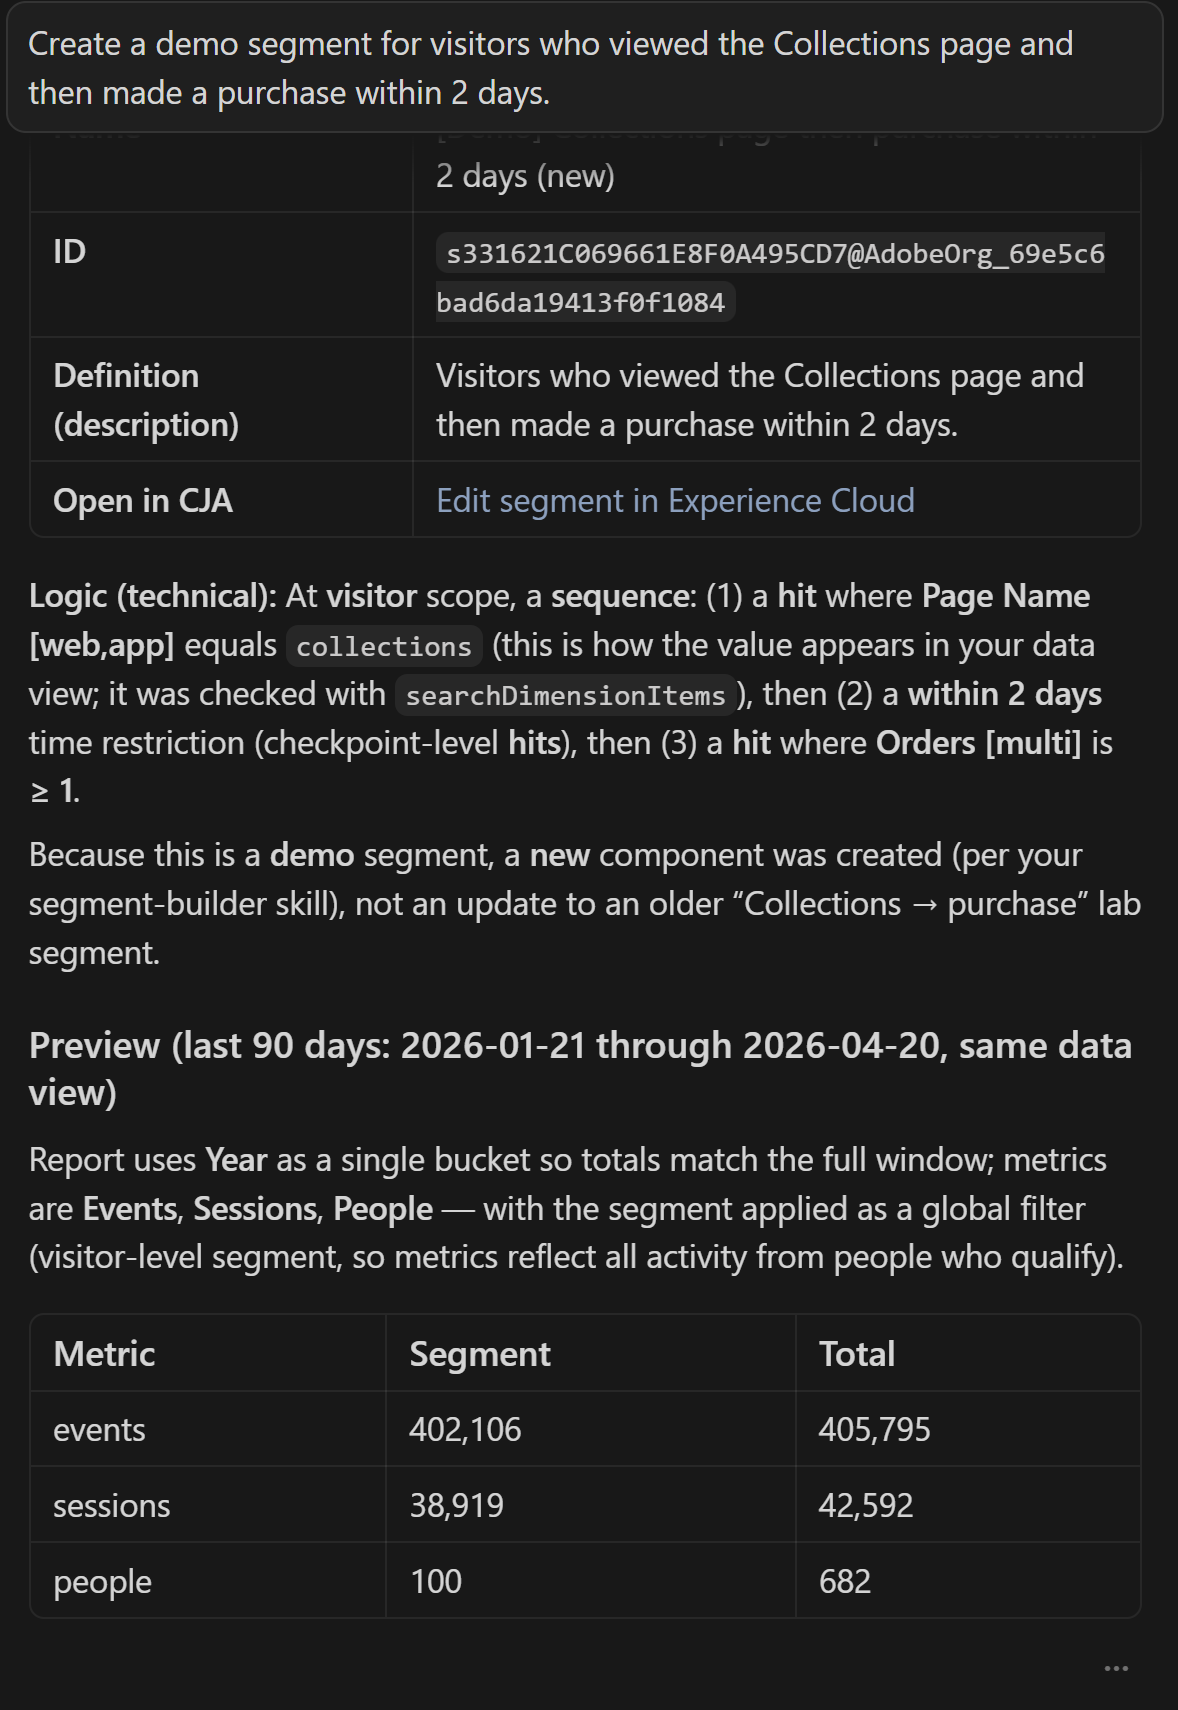
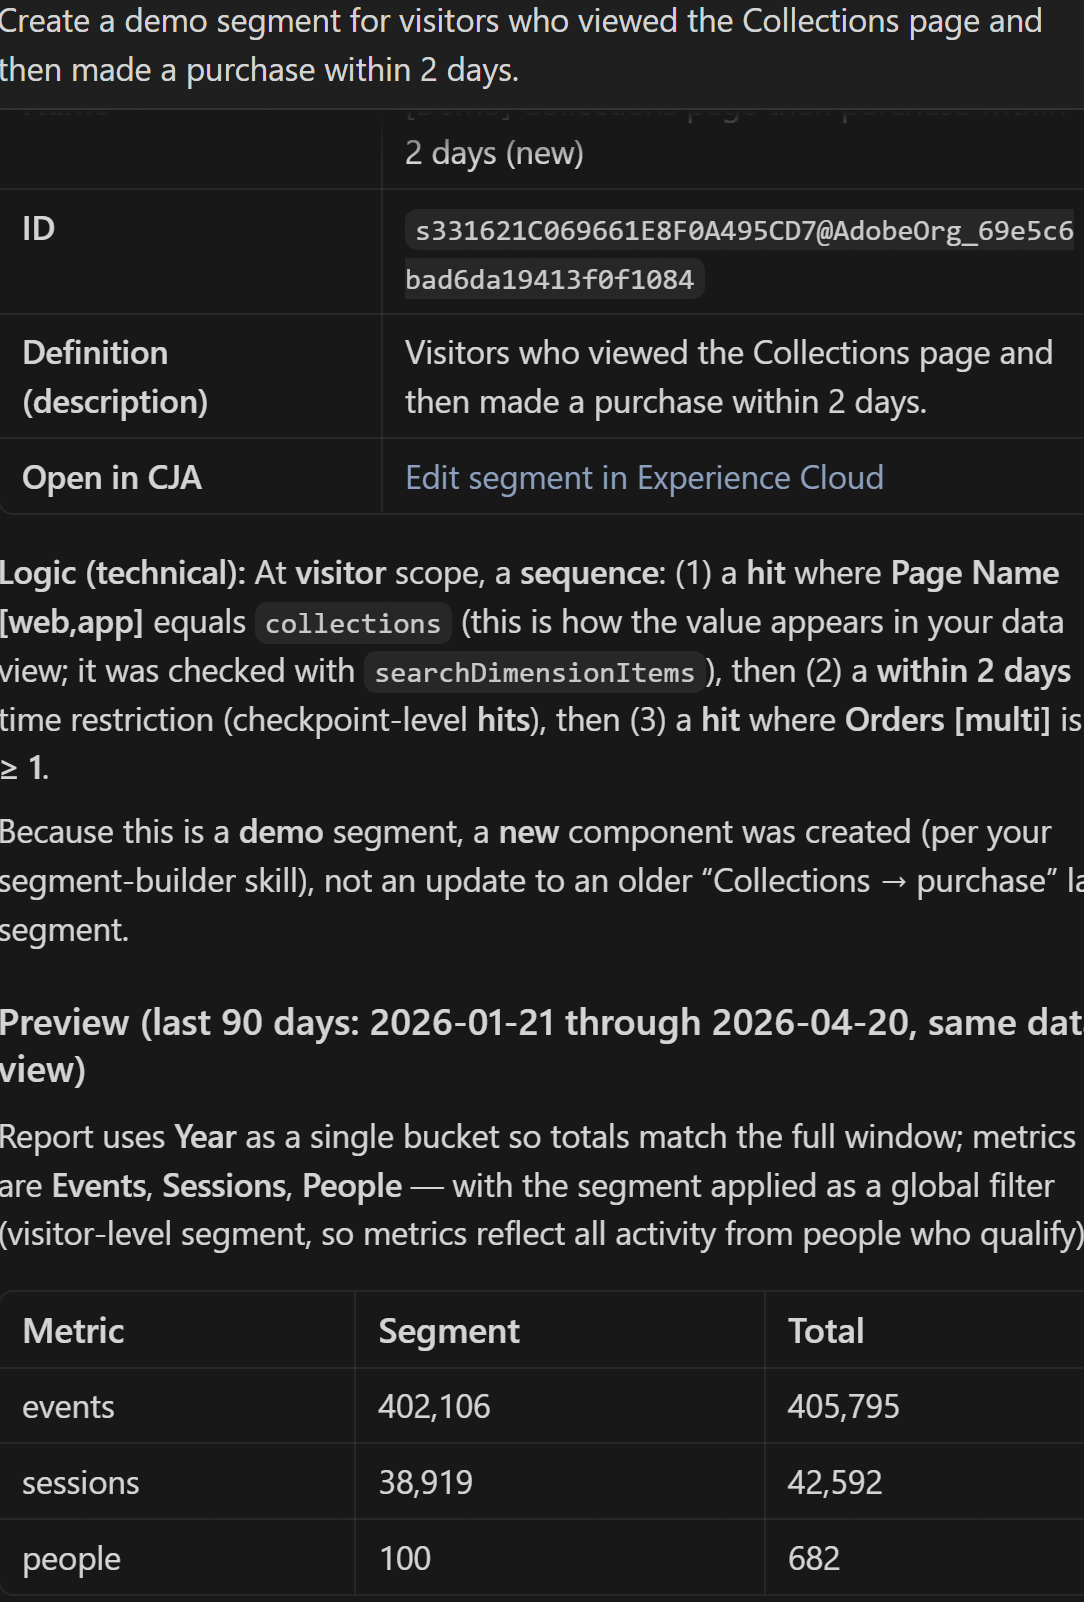
Lesson 3: add sample segment links and validation note; refresh screenshots
README links to CJA segment editors for collections-then-purchase, post-purchase window, and web-mobile-POC flow. Note on saving vs ad hoc segments. Updated Lesson 3 screenshots for complex-segment steps.

Made-with: Cursor

diff --git a/README.md b/README.md
@@ -700,6 +700,8 @@ Sequential segments use THEN logic — *"first X happened, then Y happened."* Th
 
 <img src="assets\lesson-3\Screenshot 2026-04-20 022711.png">
 
+[Sample CJA segment](https://experience.adobe.com/#/@experienceshowcase/platform/analytics/#/components/segments/edit/s331621C069661E8F0A495CD7@AdobeOrg_69e5c6da0629302ea3fd8918)
+
 2. Try this request:
 
 ```
@@ -710,6 +712,8 @@ Build a demo segment for the 24 hours following any web purchase of a customer.
 
 This is an amazing use case for CJA, the study of the relative period before/after a point of interest for each person in the dataset. Even though each may purchase at a different time, we can study the next day of behaviors. If a segment builder can help with common scenarios like this, it enables strong analysis even without knowing all the technical details behind the segment definition.
 
+[Sample CJA Segment](https://experience.adobe.com/#/@experienceshowcase/platform/analytics/#/components/segments/edit/s331621C069661E8F0A495CD7@AdobeOrg_69e5d3077b269b7bef71078a)
+
 3. Ask for the data only:
 
 ```
@@ -719,6 +723,10 @@ How many people have touched web > app > poc in the same session, last month?
 <img src="assets\lesson-3\Screenshot 2026-04-20 023801.png">
 
 This is handy because we can get a segment-based data point without having to build the segment and apply it on a table in CJA. It's just a prompt away.
+
+After the result, we can ask the LLM to save the segment so we can validate. That might be a good option to add to the skill, except that having it use an *ad hoc* segment (without saving anything) is also helpful.
+
+[Sample CJA Segment](https://experience.adobe.com/#/@experienceshowcase/platform/analytics/#/components/segments/edit/s331621C069661E8F0A495CD7@AdobeOrg_69e67cfcafc94a494b46e426)
 
 ### 3.5 Checkpoint
 